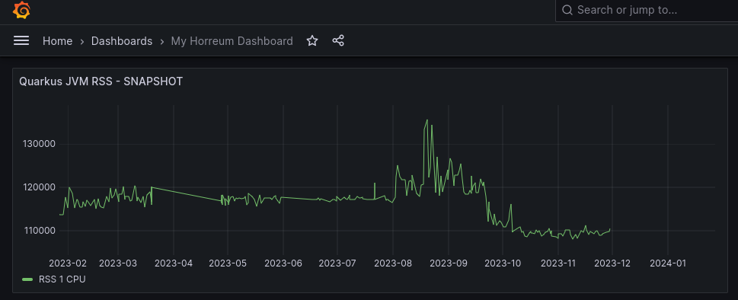
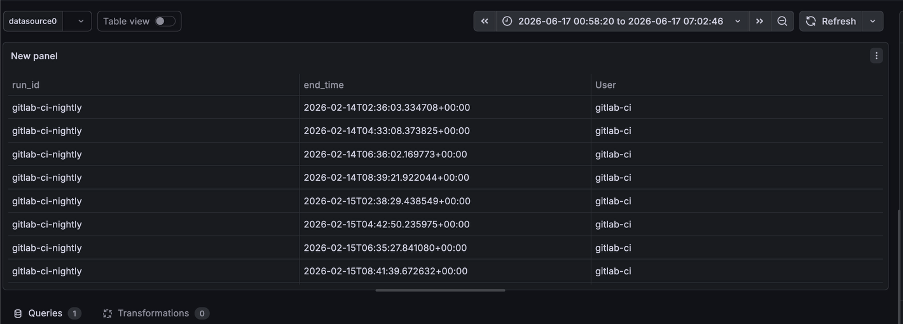
Added new screenshots inside grafana.md

diff --git a/content/en/docs/integrations/grafana.md b/content/en/docs/integrations/grafana.md
@@ -13,11 +13,11 @@ h5m exposes performance data through the `/api/folder/{id}/labelValues` endpoint
 - A Grafana instance (self-hosted or Grafana Cloud)
 - The [JSON Datasource plugin](https://grafana.com/grafana/plugins/simpod-json-datasource/) installed in Grafana
 
+---
+
 ## Configuring h5m as a Datasource
 
 ### Step 1 — Install the JSON Datasource Plugin
-
-In your Grafana instance:
 
 1. Go to **Administration → Plugins**
 2. Search for **JSON Datasource** (by simpod)
@@ -29,30 +29,29 @@ In your Grafana instance:
 
 1. Go to **Connections → Data sources → Add data source**
 
-![Click Add new data source](/images/integrations/grafana/add-datasource.png)
+   ![Click Add new data source](/images/integrations/grafana/add-datasource.png)
 
+2. Select **JSON** and configure the following fields:
 
-2. Configure:
+   | Field | Value |
+   |-------|-------|
+   | **Name** | h5m |
+   | **URL** | `http://<h5m_host>:8080` |
+   | **Access** | Server (Default) |
 
+   ![Configure h5m JSON Datasource](/images/integrations/grafana/configure-datasource.png)
 
-| Field | Value |
-|-------|-------|
-| **Name** | h5m |
-| **URL** | `http://<h5m_host>:8080` |
-| **Access** | Server (Default) |
+3. Click **Save & Test**
 
-
-![Configure h5m JSON Datasource](/images/integrations/grafana/configure-datasource.png)
-
-4. Click **Save & Test**
-
-![Datasource connected successfully](/images/integrations/grafana/datasource-success.png)
+   ![Datasource connected successfully](/images/integrations/grafana/datasource-success.png)
 
 If h5m has authentication enabled, add an `Authorization` header under **Custom HTTP Headers**:
 
 | Header | Value |
 |--------|-------|
 | `Authorization` | `Bearer H5M_<your-api-key>` |
+
+---
 
 ## The labelValues API
 
@@ -89,45 +88,51 @@ curl http://localhost:8080/api/folder/my-benchmarks
 curl http://localhost:8080/api/folder/my-benchmarks/structure
 ```
 
+---
+
 ## Building a Dashboard
 
 ### Step 1 — Create a New Dashboard
+
+Create a fresh Grafana dashboard.
 
 ![Create new Dashboard](/images/integrations/grafana/create-dashboard.png)
 
 ### Step 2 — Identify the Nodes to Plot
 
 From the folder structure response, note the IDs of:
+
 - The **metric nodes** you want to chart (e.g. throughput, CPU)
 - The **fingerprint node** to group by (optional)
-- A **sort node** (e.g. timestamp or upload order)
+- A **sort node** (e.g. upload ID or timestamp)
 
 ### Step 3 — Add a Panel
 
 1. Add a panel and select **h5m** as the datasource
 
-![Select h5m Datasource](/images/integrations/grafana/select-datasource.png)
-
+   ![Select h5m Datasource](/images/integrations/grafana/select-datasource.png)
 
 2. Give the panel a name
 
-![Set panel name](/images/integrations/grafana/panel-name.png)
+   ![Set panel name](/images/integrations/grafana/panel-name.png)
 
-3. Set the query path to:
+3. Set the query path using your folder and node IDs:
 
-```
-/api/folder/1/labelValues?nodeIds=10&nodeIds=11&groupById=5
-```
+   ```
+   /api/folder/1/labelValues?sortById=6&nodeIds=4&nodeIds=7&nodeIds=2
+   ```
 
-Replace the IDs with your actual folder and node IDs.
+   ![Define query path](/images/integrations/grafana/path.png)
 
-![Define query with labelValues endpoint](/images/integrations/grafana/define-query.png)
+4. Add the appropriate fields in the **Fields** section
 
-4. Save the panel
+   ![Configure fields in Grafana](/images/integrations/grafana/fields-grafana.png)
 
-![Save panel](/images/integrations/grafana/save-panel.png)
+5. Save the panel
 
-![Dashboard with h5m data](/images/integrations/grafana/dashboard.png)
+   ![Save panel](/images/integrations/grafana/save-panel.png)
+
+   ![Dashboard with h5m data](/images/integrations/grafana/dashboard.png)
 
 ### Step 4 — Visualise Change Detection Violations
 
@@ -138,3 +143,20 @@ Fixed Threshold (`ft`) and Relative Difference (`rd`) node IDs can be added to `
 curl "http://localhost:8080/api/folder/1/labelValues?nodeIds=10&nodeIds=77&groupById=5"
 ```
 
+---
+
+## Comparison to Horreum's Grafana Integration
+
+| | Horreum | h5m |
+|-|---------|-----|
+| **Datasource plugin** | JSON Datasource | JSON Datasource |
+| **Primary endpoint** | `/api/changes` | `/api/folder/{id}/labelValues` |
+| **Query format** | `<VariableID>;<FingerprintJSON>` | Query parameters (`nodeIds`, `groupById`) |
+| **Auth** | OAuth forwarding | API key header |
+| **Native Grafana plugin** | No | No |
+
+## Notes
+
+- h5m's API is unauthenticated by default (`h5m.security.enabled=false`). If security is enabled, configure an API key in the datasource headers.
+- The `labelValues` endpoint is available from the `labelValues-api` branch and will be merged into the main release.
+- Node IDs are stable after creation — Grafana queries remain valid across restarts.

diff --git a/content/en/docs/tutorials/getting-started.md b/content/en/docs/tutorials/getting-started.md
@@ -28,7 +28,7 @@ h5m supports multiple build profiles depending on how you want to run it.
 
 ### Web Server (default)
 
-Builds h5m as a Quarkus web application with a REST API and browser UI: H5m used Maven as a build tool. 
+Builds h5m as a Quarkus web application with a REST API and browser UI:
 
 ```bash
 mvn clean package
